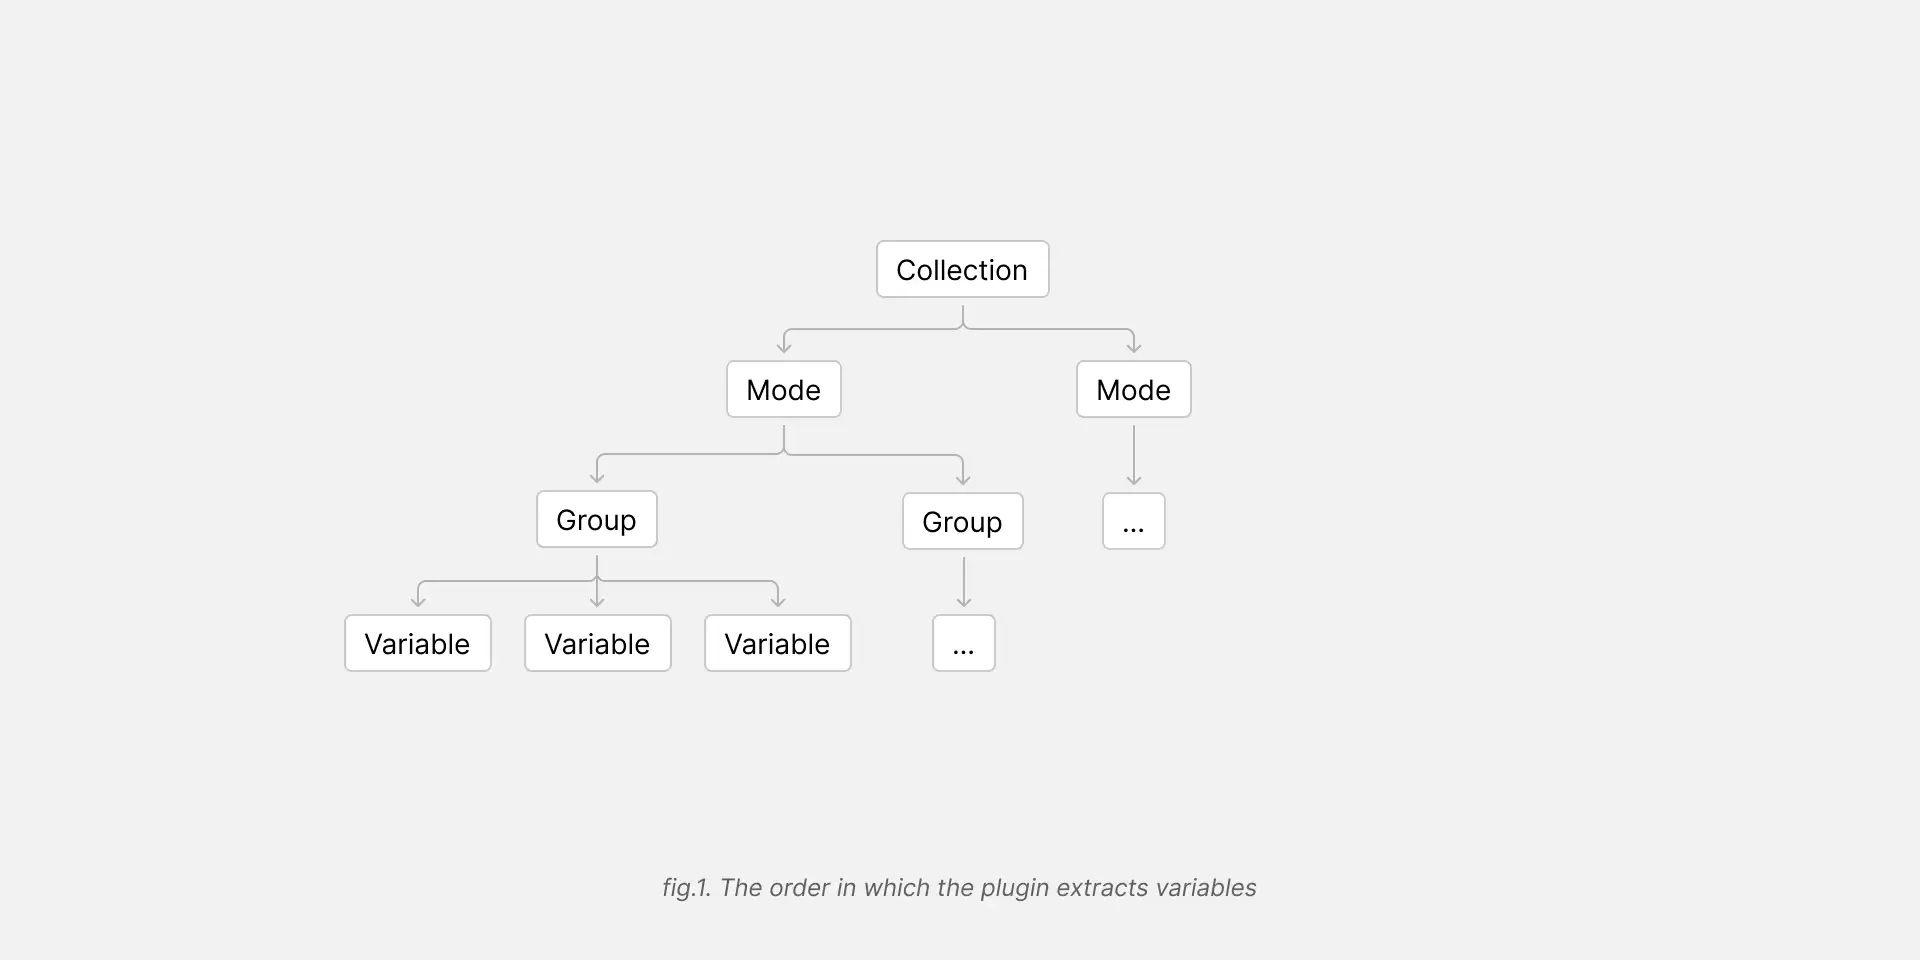
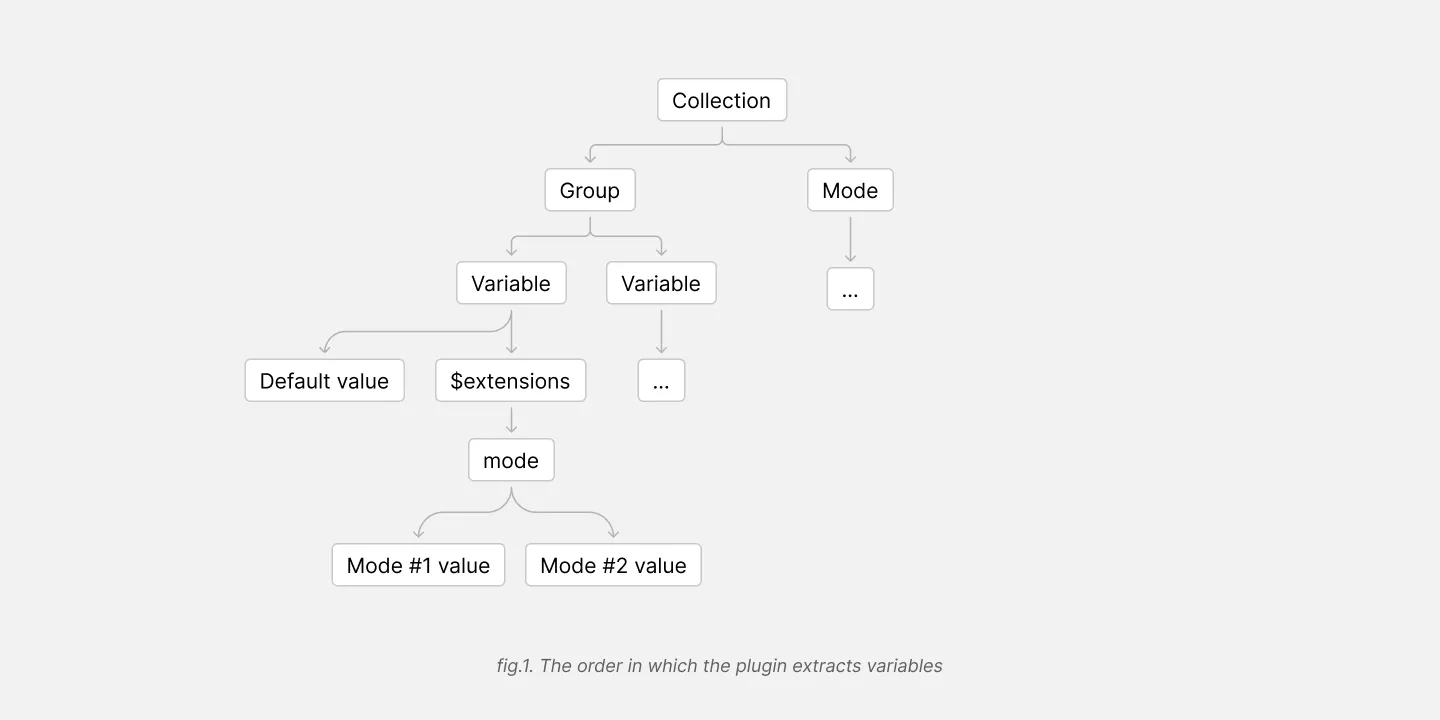
:construction: docs updated

diff --git a/src/utils/variablesToTokens.ts b/src/utils/variablesToTokens.ts
@@ -2,8 +2,6 @@ import { normalizeValue } from "./normalizeValue";
 import { normilizeType } from "./normilizeType";
 import { getTokenKeyName } from "./getTokenKeyName";
 
-import { groupObjectNamesIntoCategories } from "./groupObjectNamesIntoCategories";
-
 // console.clear();
 
 export const variablesToTokens = async (
@@ -23,20 +21,26 @@ export const variablesToTokens = async (
     };
   });
 
-  console.log("variables", variables);
+  // console.log("variables", variables);
+  console.log("collections", collections);
 
   variables.forEach((variable) => {
-    console.log("variable", variable);
+    // console.log("variable", variable);
     // get collection object
     const collectionId = variable.variableCollectionId;
     const collectionName = collections.find(
       (collection) => collection.id === collectionId
     ).name;
+    const collectionDefaultModeId = collections.find(
+      (collection) => collection.id === collectionId
+    ).defaultModeId;
     const collectionObject = {
       id: collectionId,
       name: collectionName,
+      defaultModeId: collectionDefaultModeId,
     };
 
+    // console.log("collectionObject", collectionObj
     // console.log("collection", collectionObject);
 
     // get values by mode
@@ -52,7 +56,11 @@ export const variablesToTokens = async (
         includeValueAliasString,
       });
 
-    const defaultValue = getValue(0);
+    const defaultValue = getValue(
+      Object.keys(modes).indexOf(collectionDefaultModeId)
+    );
+
+    // console.log("defaultValue", defaultValue);
 
     const modesValues = Object.fromEntries(
       Object.keys(modes).map((modeId, index) => {
@@ -103,82 +111,7 @@ export const variablesToTokens = async (
     };
   }, {});
 
-  console.log("mergedVariables", mergedVariables);
-
-  // collections.forEach((collection) => {
-  //   let modes = {};
-
-  //   const collectionName = collection.name;
-  //   const isScopesIncluded = JSONSettingsConfig.includeScopes;
-  //   const modesAmount = collection.modes.length;
-
-  //   const newTokens = variables.reduce((result, variable) => {
-  //     const modeValues = variable.valuesByMode;
-
-  //     console.log("modeValues", modeValues);
-
-  //     result[variable.name] = {
-  //       [keyNames.type]: normilizeType(variable.resolvedType),
-
-  //       [keyNames.description]: variable.description,
-  //     };
-
-  //     return result;
-  //   });
-
-  //   console.log("newTokens", newTokens);
-
-  //   // collection.modes.forEach((mode, index) => {
-  //   //   const modeName = mode.name;
-
-  //   //   const variablesPerMode = variables.reduce((result, variable) => {
-  //   //     // console.log("variable", variable);
-  //   //     // console.log("result", result);
-  //   //     //   const variableModeId = Object.keys(variable.valuesByMode)[index];
-
-  //   //     //   if (variableModeId === mode.modeId) {
-  //   //     //     const normilisedVariable = normalizeValue({
-  //   //     //       modeName,
-  //   //     //       modesAmount,
-  //   //     //       variableType: variable.resolvedType,
-  //   //     //       variableValue: variable.valuesByMode[variableModeId],
-  //   //     //       colorMode,
-  //   //     //       isDTCGForamt,
-  //   //     //       includeValueAliasString,
-  //   //     //     });
-
-  //   //     //     const variableObject = {
-  //   //     //       [keyNames.type]: normilizeType(variable.resolvedType),
-  //   //     //       [keyNames.value]: normilisedVariable,
-  //   //     //       [keyNames.description]: variable.description,
-  //   //     //       // add scopes if true
-  //   //     //       ...(isScopesIncluded && {
-  //   //     //         scopes: variable.scopes,
-  //   //     //       }),
-  //   //     //       // add meta
-  //   //     //       $extensions: {
-  //   //     //         variableId: variable.id,
-  //   //     //       },
-  //   //     //     } as PluginTokenI;
-
-  //   //     //     result[variable.name] = variableObject;
-  //   //     //   }
-
-  //   //     return result;
-  //   //   }, {});
-
-  //   //   // check amount of modes and assign to "modes" or "modes[modeName]" variable
-  //   //   if (modesAmount === 1) {
-  //   //     Object.assign(modes, groupObjectNamesIntoCategories(variablesPerMode));
-  //   //   } else {
-  //   //     // modes[modeName] = groupObjectNamesIntoCategories(variablesPerMode);
-  //   //   }
-  //   // });
-
-  //   // console.log("modes", modes);
-
-  //   mergedVariables[collectionName] = modes;
-  // });
+  // console.log("mergedVariables", mergedVariables);
 
   return mergedVariables;
 };

diff --git a/src/app/SettingsView/index.tsx b/src/app/SettingsView/index.tsx
@@ -672,7 +672,7 @@ export const SettingsView = (props: ViewProps) => {
               <Text>Documentation</Text>
             </a>
             <a href={config.changelogLink} target="_blank">
-              <Text>v.1.6.1</Text>
+              <Text>v.2.0.0</Text>
             </a>
           </Stack>
         </Panel>

diff --git a/global.d.ts b/global.d.ts
@@ -111,6 +111,7 @@ interface PluginTokenI {
       collection: {
         id: string;
         name: string;
+        defaultModeId: string;
       };
     };
   };

diff --git a/README.md b/README.md
@@ -15,6 +15,7 @@ The plugin converts Figma variables into design-tokens JSON that are compatible 
 - [TokensBrücke — Figma plugin](#tokensbrücke--figma-plugin)
   - [What is this plugin for?](#what-is-this-plugin-for)
   - [Table of contents](#table-of-contents)
+  - [New version 2.0.0](#new-version-200)
   - [How to use](#how-to-use)
   - [General settings](#general-settings)
     - [Color mode](#color-mode)
@@ -38,7 +39,7 @@ The plugin converts Figma variables into design-tokens JSON that are compatible 
     - [Blur](#blur)
     - [Why there is no support for color styles?](#why-there-is-no-support-for-color-styles)
     - [Gradients support 🚧](#gradients-support-)
-  - [Tokens structuring](#tokens-structuring)
+  - [Tokens structure](#tokens-structure)
   - [Aliases handling](#aliases-handling)
     - [Include `.value` string for aliases](#include-value-string-for-aliases-1)
     - [Handle variables from another file](#handle-variables-from-another-file)
@@ -51,6 +52,13 @@ The plugin converts Figma variables into design-tokens JSON that are compatible 
   - [Changelog](#changelog)
 
 ---
+
+## New version 2.0.0
+
+In the new version of the plugin all mode variables moved into the `$extensions` / `modes` object.
+This is how `Cobalt` work with multiple modes. Check it here — [cobalt-ui.pages.dev/guides/modes#with-modes](https://cobalt-ui.pages.dev/guides/modes#with-modes)
+
+You can download and install previos version `1.6.1` here — [github.com/tokens-bruecke/figma-plugin/files/13536853/build.zip](https://github.com/tokens-bruecke/figma-plugin/files/13536853/build.zip)
 
 ## How to use
 
@@ -353,30 +361,33 @@ Support for gradients is comming with the next major release.
 
 ---
 
-## Tokens structuring
+## Tokens structure
 
-Plugin first takes the collection name, then mode name and then variable name (fig.1).
+Plugin first takes the `collection` name, then the `group` and then the `variable` name (fig.1).
+Mode variables will be wrapped under the `$extensions` objects
 
 ![fig.1](readme-assets/fig1.webp)
 
-For example, if you have a collection named `Colors`, mode named `Light` and variable named `Primary`, the plugin will generate the following JSON:
+For example, if you have a collection named `clr-theme`, mode named `light` and variable named `dark`, the plugin will generate the following JSON:
 
 ```json
-{
-  "colors": {
-    "light": {
-      "primary": {
-        "10": {
-          "type": "color",
-          "value": "#000000"
-        }
+"clr-theme": {
+  "container-outline/mid": {
+    "type": "color",
+    "value": "{clr-core.ntrl.40}",
+    "description": "",
+    "$extensions": {
+      "mode": {
+        "light": "{clr-core.ntrl.40}",
+        "dark": "{clr-core.ntrl.55}"
       }
     }
   }
 }
+,
 ```
 
-![fig.1](readme-assets/fig2.webp)
+![fig.2](readme-assets/fig2.webp)
 
 Figma automatically merges groups and their names into a single name, e.g. `Base/Primary/10` (fig.2). In this case, the plugin will generate the following JSON:
 
@@ -402,7 +413,7 @@ All aliases are converted into the alias string format from the [Design Tokens s
   "button": {
     "background": {
       "type": "color",
-      "value": "{colors.light.primary.10}"
+      "value": "{colors.primary.10}"
     }
   }
 }
@@ -425,7 +436,7 @@ The plugin will generate the alias name anyway, but it will be a path to the var
   "button": {
     "background": {
       "type": "color",
-      "value": "{colors.light.primary.10}"
+      "value": "{colors.primary.10}"
     }
   }
 }
@@ -440,6 +451,9 @@ So you will need to merge the file with the base variables from one file with an
 ### Handle modes
 
 If there is only one mode — the plugin wouldn't include it in a generated JSON.
+If there are multiple modes, the plugin will place them under the `$extensions` objects.
+
+It follows the same pattern as used by [Cobalt](https://cobalt-ui.pages.dev/guides/modes#with-modes)
 
 ---
 
@@ -569,3 +583,7 @@ If you have any questions or suggestions, feel free to [create an issue](https:/
 **1.6.0**
 
 - `value` string for aliases is now optional
+
+**2.0.0**
+
+- tokens structure was changed. All modes now moved from variable names into `$extensions/modes` object. In order to make it work with [Cobalt](https://cobalt-ui.pages.dev/guides/modes#with-modes). For morre details see this issue — [Multiple collection and modes](https://github.com/tokens-bruecke/figma-plugin/issues/7). Previous implementation didn't work correctly with multiple modes and aliasees.
